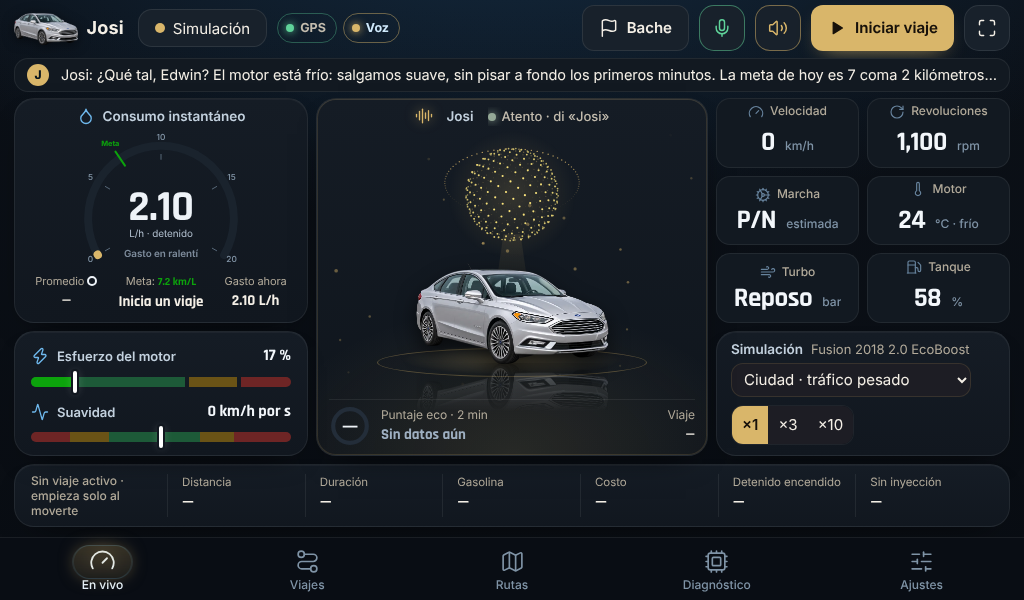
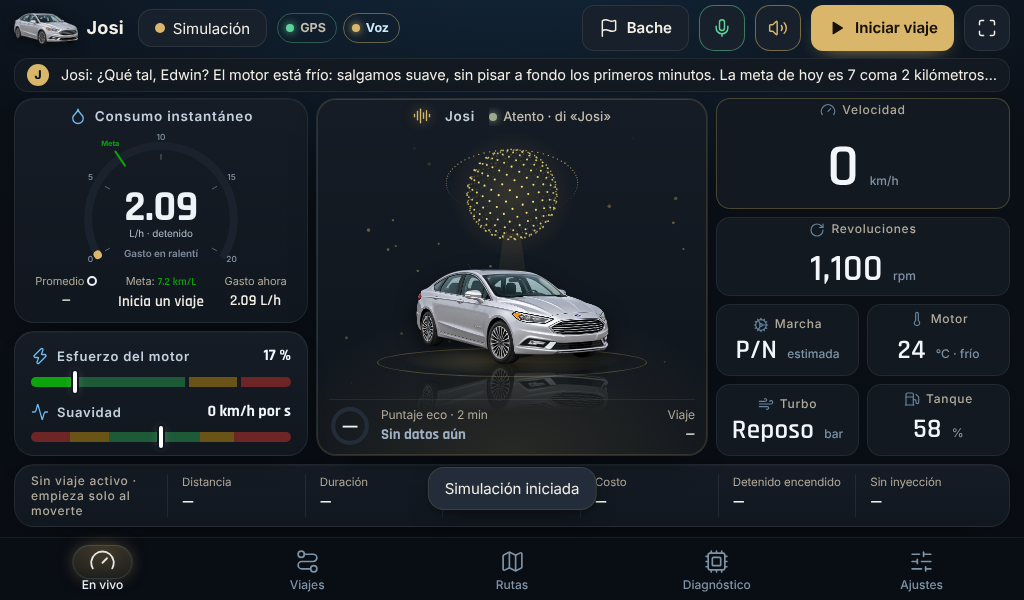
Bloque 3: jerarquía del cockpit, tipografía por tema, niveles de animación y modo conducción
Claude-Session: https://claude.ai/code/session_01QTMLcSmHyeseGkY8B16Hks

diff --git a/index.html b/index.html
@@ -1339,6 +1339,27 @@ body.night .josi-car{animation:none}
   .stat .lbl{font-size:11.5px}.stat .v{font-size:19px}
   .coach{min-height:34px;font-size:14.5px;margin-bottom:6px;padding:3px 12px}
 }
+/* Bloque 3 · jerarquía de conducción: velocidad y RPM dominan (pantallas anchas) */
+@media (min-width:1001px){
+  .live:not(.has-sim) .tiles{grid-template-rows:1.55fr 1.1fr 1fr 1fr}
+  .live:not(.has-sim) .tiles .tile:nth-child(-n+2){grid-column:span 2}
+  .live:not(.has-sim) .tiles .tile:nth-child(1) .v{font-size:clamp(44px,10vh,80px)!important;line-height:.95;color:var(--ink-num)}
+  .live:not(.has-sim) .tiles .tile:nth-child(2) .v{font-size:clamp(30px,6.2vh,48px)!important;line-height:1}
+  .live .tiles .tile:nth-child(1){border-color:rgba(var(--acc),.28)}
+}
+@media (min-width:1001px) and (min-height:701px){.live:not(.has-sim) .tiles{grid-template-rows:1.7fr 1.1fr 1fr 1fr}}
+/* Tipografía por tema */
+body[data-theme=luxury] .tile .v,body[data-theme=luxury] .gauge-card b.num{font-weight:300;letter-spacing:.01em}
+body[data-theme=luxury] .tile .t,body[data-theme=luxury] .card-h{letter-spacing:.06em}
+body[data-theme=sport] .tile .v{font-weight:800;letter-spacing:-.01em}
+body[data-theme=sport] .tile .t,body[data-theme=sport] .card-h{text-transform:uppercase;letter-spacing:.07em;font-size:.92em}
+/* Animaciones: 3 niveles (off / standard / premium) y modo conducción */
+body[data-anim=off] #view *,body[data-anim=off] #view{animation:none!important;transition:none!important}
+body[data-anim=off] .josi-car,body[data-anim=off] .josi-floor,body[data-anim=off] .josi-floor::before,body[data-anim=off] .josi-floor::after,body[data-anim=off] .tile::after,body[data-anim=off] .gauge-card::after,body[data-anim=off] .effort-card::after,body[data-anim=off] .card-h::before,
+body.driving .josi-car,body.driving .josi-floor,body.driving .josi-floor::before,body.driving .josi-floor::after,body.driving .tile::after,body.driving .gauge-card::after,body.driving .effort-card::after,body.driving .card-h::before{animation:none!important}
+body[data-anim=premium] #view.ghost-in .card,body[data-anim=premium] #view.ghost-in .tile,body[data-anim=premium] #view.ghost-in .coach{animation-duration:.8s}
+body[data-anim=premium] #view.ghost-in .live>*:nth-child(n+2),body[data-anim=premium] #view.ghost-in .tiles .tile:nth-child(n+2){animation-delay:calc(var(--i,1) * .09s)}
+body[data-anim=premium] #view.ghost-in .tiles .tile:nth-child(3){--i:3}body[data-anim=premium] #view.ghost-in .tiles .tile:nth-child(4){--i:4}body[data-anim=premium] #view.ghost-in .tiles .tile:nth-child(5){--i:5}body[data-anim=premium] #view.ghost-in .tiles .tile:nth-child(6){--i:6}
 </style>
 <script>/* number-flow 0.6 (MIT) — dígitos animados */
 (()=>{var u=!0;var I=globalThis.process?.env?.NODE_ENV,Q=I&&!I.toLowerCase().startsWith("prod");var gt=String.raw,V=String.raw,X=u&&(()=>{try{document.createElement("div").animate({opacity:0},{easing:"linear(0, 1)"})}catch{return!1}return!0})(),H=u&&typeof CSS<"u"&&CSS.supports&&CSS.supports("line-height","mod(1,1)"),A=u&&typeof matchMedia<"u"?matchMedia("(prefers-reduced-motion: reduce)"):null,b="--_number-flow-d-opacity",R="--_number-flow-d-width",w="--_number-flow-dx",T="--_number-flow-d",z=(()=>{try{return CSS.registerProperty({name:b,syntax:"<number>",inherits:!1,initialValue:"0"}),CSS.registerProperty({name:w,syntax:"<length>",inherits:!0,initialValue:"0px"}),CSS.registerProperty({name:R,syntax:"<number>",inherits:!1,initialValue:"0"}),CSS.registerProperty({name:T,syntax:"<number>",inherits:!0,initialValue:"0"}),!0}catch{return!1}})(),k="round(nearest, calc(var(--number-flow-mask-height, 0.25em) / 2), 1px)",m=`calc(${k} * 2)`,D="var(--number-flow-mask-width, 0.5em)",g=`calc(${D} / var(--scale-x))`,C="#000 0, transparent 71%",U=V`:host{display:inline-block;direction:ltr;white-space:nowrap;isolation:isolate;line-height:1}.number,.number__inner{display:inline-block;transform-origin:left top}:host([data-will-change]) :is(.number,.number__inner,.section,.digit,.digit__num,.symbol){will-change:transform}.number{--scale-x:calc(1 + var(${R}) / var(--width));transform:translateX(var(${w})) scaleX(var(--scale-x));margin:0 calc(-1 * ${D});position:relative;-webkit-mask-image:linear-gradient(to right,transparent 0,#000 ${g},#000 calc(100% - ${g}),transparent ),linear-gradient(to bottom,transparent 0,#000 ${m},#000 calc(100% - ${m}),transparent 100% ),radial-gradient(at bottom right,${C}),radial-gradient(at bottom left,${C}),radial-gradient(at top left,${C}),radial-gradient(at top right,${C});-webkit-mask-size:100% calc(100% - ${m} * 2),calc(100% - ${g} * 2) 100%,${g} ${m},${g} ${m},${g} ${m},${g} ${m};-webkit-mask-position:center,center,top left,top right,bottom right,bottom left;-webkit-mask-repeat:no-repeat}.number__inner{padding:${k} ${D};transform:scaleX(calc(1 / var(--scale-x))) translateX(calc(-1 * var(${w})))}:host > :not(.number){z-index:5}.section,.symbol{display:inline-block;position:relative;isolation:isolate}.section::after{content:'\200b';display:inline-block}.section--justify-left{transform-origin:center left}.section--justify-right{transform-origin:center right}.section > [inert],.symbol > [inert]{margin:0 !important;position:absolute !important;z-index:-1}.digit{display:inline-block;position:relative;--c:var(--current) + var(${T})}.digit__num,.number .section::after{padding:${k} 0}.digit__num{display:inline-block;--offset-raw:mod(var(--length) + var(--n) - mod(var(--c),var(--length)),var(--length));--offset:calc( var(--offset-raw) - var(--length) * round(down,var(--offset-raw) / (var(--length) / 2),1) );--y:clamp(-100%,var(--offset) * 100%,100%);transform:translateY(var(--y))}.digit__num[inert]{position:absolute;top:0;left:50%;transform:translateX(-50%) translateY(var(--y))}.digit:not(.is-spinning) .digit__num[inert]{display:none}.symbol__value{display:inline-block;mix-blend-mode:plus-lighter;white-space:pre}.section--justify-left .symbol > [inert]{left:0}.section--justify-right .symbol > [inert]{right:0}.animate-presence{opacity:calc(1 + var(${b}))}`,Y=u&&typeof HTMLElement<"u"?HTMLElement:class{},Z=V`:host{display:inline-block;direction:ltr;white-space:nowrap;line-height:1}span{display:inline-block}:host([data-will-change]) span{will-change:transform}.number,.digit{padding:${k} 0}.symbol{white-space:pre}`;var q=(n="")=>V`:where(number-flow${n}){line-height:1}number-flow${n} > span{font-kerning:none;display:inline-block;padding:${m} 0}`;var f=(n,t,e)=>{let i=document.createElement(n),[s,r]=Array.isArray(t)?[void 0,t]:[t,e];return s&&Object.assign(i,s),r?.forEach(a=>i.appendChild(a)),i},it=(n,t)=>{var e;return t==="left"?n.offsetLeft:(((e=n.offsetParent instanceof HTMLElement?n.offsetParent:null)==null?void 0:e.offsetWidth)??0)-n.offsetWidth-n.offsetLeft},st=n=>n.offsetWidth>0&&n.offsetHeight>0,J=(n,t)=>{u&&typeof HTMLElement<"u"&&typeof customElements<"u"&&!customElements.get(n)&&customElements.define(n,t)};function nt(n,t,{reverse:e=!1}={}){let i=n.length;for(let s=e?i-1:0;e?s>=0:s<i;e?s--:s++)t(n[s],s)}function G(n,t,e,i){let s=t.formatToParts(n);e&&s.unshift({type:"prefix",value:e}),i&&s.push({type:"suffix",value:i});let r=[],a=[],o=[],c=[],p={},d=h=>`${h}:${p[h]=(p[h]??-1)+1}`,v="",y=!1,_=!1;for(let h of s){v+=h.value;let l=h.type==="minusSign"||h.type==="plusSign"?"sign":h.type;l==="integer"?(y=!0,a.push(...h.value.split("").map(L=>({type:l,value:parseInt(L)})))):l==="group"?a.push({type:l,value:h.value}):l==="decimal"?(_=!0,o.push({type:l,value:h.value,key:d(l)})):l==="fraction"?o.push(...h.value.split("").map(L=>({type:l,value:parseInt(L),key:d(l),pos:-1-p[l]}))):(y||_?c:r).push({type:l,value:h.value,key:d(l)})}let B=[];for(let h=a.length-1;h>=0;h--){let l=a[h];B.unshift(l.type==="integer"?{...l,key:d(l.type),pos:p[l.type]}:{...l,key:d(l.type)})}return{pre:r,integer:B,fraction:o,post:c,valueAsString:v,value:typeof n=="string"?parseFloat(n):n}}var W=H&&X&&z,$=class extends Y{constructor(){super(),this.created=!1,this.batched=!1,this._preUpdated=!1;let{animated:t,...e}=this.constructor.defaultProps;this._animated=this.computedAnimated=t,Object.assign(this,e)}get animated(){return this._animated}set animated(t){var e;this.animated!==t&&(this._animated=t,(e=this.shadowRoot)==null||e.getAnimations().forEach(i=>i.finish()))}set data(t){var e,i;if(t==null||t===this._data)return;let{pre:s,integer:r,fraction:a,post:o,value:c}=t;if(this.created){let p=this._data;this._data=t,this.computedTrend=typeof this.trend=="function"?this.trend(p.value,c):this.trend,this.computedAnimated=W&&this._animated&&(!this.respectMotionPreference||!((e=A)!=null&&e.matches))&&st(this)&&this.ownerDocument.visibilityState==="visible",(i=this.plugins)==null||i.forEach(d=>{var v;return(v=d.onUpdate)==null?void 0:v.call(d,t,p,this)}),this.batched||this.willUpdate(),this._pre.update(s),this._num.update({integer:r,fraction:a}),this._post.update(o),this.batched||this.didUpdate()}else{this._data=t,this.attachShadow({mode:"open"});try{this._internals??(this._internals=this.attachInternals()),this._internals.role="img"}catch{}let p=document.createElement("style");this.nonce&&(p.nonce=this.nonce),p.textContent=U,this.shadowRoot.appendChild(p),this._pre=new M(this,s,{justify:"right",part:"left"}),this.shadowRoot.appendChild(this._pre.el),this._num=new F(this,r,a),this.shadowRoot.appendChild(this._num.el),this._post=new M(this,o,{justify:"left",part:"right"}),this.shadowRoot.appendChild(this._post.el),this.created=!0}try{this._internals.ariaLabel=t.valueAsString}catch{}}willUpdate(){var t;this._preUpdated=W&&this._animated&&(!this.respectMotionPreference||!((t=A)!=null&&t.matches))&&this.ownerDocument.visibilityState==="visible",this._preUpdated&&(this._pre.willUpdate(),this._num.willUpdate(),this._post.willUpdate())}didUpdate(){if(!this.computedAnimated||!this._preUpdated)return;this._abortAnimationsFinish?this._abortAnimationsFinish.abort():this.dispatchEvent(new Event("animationsstart")),this._pre.didUpdate(),this._num.didUpdate(),this._post.didUpdate();let t=new AbortController;Promise.all(this.shadowRoot.getAnimations().map(e=>e.finished)).then(()=>{t.signal.aborted||(this.dispatchEvent(new Event("animationsfinish")),this._abortAnimationsFinish=void 0)}),this._abortAnimationsFinish=t}};$.defaultProps={transformTiming:{duration:900,easing:"linear(0,.005,.019,.039,.066,.096,.129,.165,.202,.24,.278,.316,.354,.39,.426,.461,.494,.526,.557,.586,.614,.64,.665,.689,.711,.731,.751,.769,.786,.802,.817,.831,.844,.856,.867,.877,.887,.896,.904,.912,.919,.925,.931,.937,.942,.947,.951,.955,.959,.962,.965,.968,.971,.973,.976,.978,.98,.981,.983,.984,.986,.987,.988,.989,.99,.991,.992,.992,.993,.994,.994,.995,.995,.996,.996,.9963,.9967,.9969,.9972,.9975,.9977,.9979,.9981,.9982,.9984,.9985,.9987,.9988,.9989,1)"},spinTiming:void 0,opacityTiming:{duration:450,easing:"ease-out"},animated:!0,trend:(n,t)=>Math.sign(t-n),respectMotionPreference:!0,plugins:void 0,digits:void 0};var F=class{constructor(t,e,i,{className:s,...r}={}){this.flow=t,this._integer=new N(t,e,{justify:"right",part:"integer"}),this._fraction=new N(t,i,{justify:"left",part:"fraction"}),this._inner=f("span",{className:"number__inner"},[this._integer.el,this._fraction.el]),this.el=f("span",{...r,part:"number",className:`number ${s??""}`},[this._inner])}willUpdate(){this._prevWidth=this.el.offsetWidth,this._prevLeft=this.el.getBoundingClientRect().left,this._integer.willUpdate(),this._fraction.willUpdate()}update({integer:t,fraction:e}){this._integer.update(t),this._fraction.update(e)}didUpdate(){let t=this.el.getBoundingClientRect();this._integer.didUpdate(),this._fraction.didUpdate();let e=this._prevLeft-t.left,i=this.el.offsetWidth,s=this._prevWidth-i;this.el.style.setProperty("--width",String(i)),this.el.animate({[w]:[`${e}px`,"0px"],[R]:[s,0]},{...this.flow.transformTiming,composite:"accumulate"})}},j=class{constructor(t,e,{justify:i,className:s,...r},a){this.flow=t,this.children=new Map,this.onCharRemove=c=>()=>{this.children.delete(c)},this.justify=i;let o=e.map(c=>this.addChar(c).el);this.el=f("span",{...r,className:`section section--justify-${i} ${s??""}`},a?a(o):o)}addChar(t,{startDigitsAtZero:e=!1,...i}={}){let s=t.type==="integer"||t.type==="fraction"?new E(this,t.type,e?0:t.value,t.pos,{...i,onRemove:this.onCharRemove(t.key)}):new O(this,t.type,t.value,{...i,onRemove:this.onCharRemove(t.key)});return this.children.set(t.key,s),s}unpop(t){t.el.removeAttribute("inert"),t.el.style.top="",t.el.style[this.justify]=""}pop(t){t.forEach(e=>{e.el.style.top=`${e.el.offsetTop}px`,e.el.style[this.justify]=`${it(e.el,this.justify)}px`}),t.forEach(e=>{e.el.setAttribute("inert",""),e.present=!1})}addNewAndUpdateExisting(t){let e=new Map,i=new Map,s=this.justify==="left",r=s?"prepend":"append";if(nt(t,a=>{let o;this.children.has(a.key)?(o=this.children.get(a.key),i.set(a,o),this.unpop(o),o.present=!0):(o=this.addChar(a,{startDigitsAtZero:!0,animateIn:!0}),e.set(a,o)),this.el[r](o.el)},{reverse:s}),this.flow.computedAnimated){let a=this.el.getBoundingClientRect();e.forEach(o=>{o.willUpdate(a)})}e.forEach((a,o)=>{a.update(o.value)}),i.forEach((a,o)=>{a.update(o.value)})}willUpdate(){let t=this.el.getBoundingClientRect();this._prevOffset=t[this.justify],this.children.forEach(e=>e.willUpdate(t))}didUpdate(){let t=this.el.getBoundingClientRect();this.children.forEach(s=>s.didUpdate(t));let e=t[this.justify],i=this._prevOffset-e;i&&this.children.size&&this.el.animate({transform:[`translateX(${i}px)`,"none"]},{...this.flow.transformTiming,composite:"accumulate"})}},N=class extends j{update(t){let e=new Map;this.children.forEach((i,s)=>{t.find(r=>r.key===s)||e.set(s,i),this.unpop(i)}),this.addNewAndUpdateExisting(t),e.forEach(i=>{i instanceof E&&i.update(0)}),this.pop(e)}},M=class extends j{update(t){let e=new Map;this.children.forEach((i,s)=>{t.find(r=>r.key===s)||e.set(s,i)}),this.pop(e),this.addNewAndUpdateExisting(t)}},x=class{constructor(t,e,{onRemove:i,animateIn:s=!1}={}){this.flow=t,this.el=e,this._present=!0,this._remove=()=>{var r;this.el.remove(),(r=this._onRemove)==null||r.call(this)},this.el.classList.add("animate-presence"),this.flow.computedAnimated&&s&&this.el.animate({[b]:[-.9999,0]},{...this.flow.opacityTiming,composite:"accumulate"}),this._onRemove=i}get present(){return this._present}set present(t){if(this._present!==t){if(this._present=t,t?this.el.removeAttribute("inert"):this.el.setAttribute("inert",""),!this.flow.computedAnimated){t||this._remove();return}this.el.style.setProperty("--_number-flow-d-opacity",t?"0":"-.999"),this.el.animate({[b]:t?[-.9999,0]:[.999,0]},{...this.flow.opacityTiming,composite:"accumulate"}),t?this.flow.removeEventListener("animationsfinish",this._remove):this.flow.addEventListener("animationsfinish",this._remove,{once:!0})}}},P=class extends x{constructor(t,e,i,s){super(t.flow,i,s),this.section=t,this.value=e,this.el=i}},E=class extends P{constructor(t,e,i,s,r){var a,o;let c=(((o=(a=t.flow.digits)==null?void 0:a[s])==null?void 0:o.max)??9)+1,p=Array.from({length:c}).map((v,y)=>{let _=f("span",{className:"digit__num"},[document.createTextNode(String(y))]);return y!==i&&_.setAttribute("inert",""),_.style.setProperty("--n",String(y)),_}),d=f("span",{part:`digit ${e}-digit`,className:"digit"},p);d.style.setProperty("--current",String(i)),d.style.setProperty("--length",String(c)),super(t,i,d,r),this.pos=s,this._onAnimationsFinish=()=>{this.el.classList.remove("is-spinning")},this._numbers=p,this.length=c}willUpdate(t){let e=this.el.getBoundingClientRect();this._prevValue=this.value;let i=e[this.section.justify]-t[this.section.justify],s=e.width/2;this._prevCenter=this.section.justify==="left"?i+s:i-s}update(t){this.el.style.setProperty("--current",String(t)),this._numbers.forEach((e,i)=>i===t?e.removeAttribute("inert"):e.setAttribute("inert","")),this.value=t}didUpdate(t){let e=this.el.getBoundingClientRect(),i=e[this.section.justify]-t[this.section.justify],s=e.width/2,r=this.section.justify==="left"?i+s:i-s,a=this._prevCenter-r;a&&this.el.animate({transform:[`translateX(${a}px)`,"none"]},{...this.flow.transformTiming,composite:"accumulate"});let o=this.getDelta();o&&(this.el.classList.add("is-spinning"),this.el.animate({[T]:[-o,0]},{...this.flow.spinTiming??this.flow.transformTiming,composite:"accumulate"}),this.flow.addEventListener("animationsfinish",this._onAnimationsFinish,{once:!0}))}getDelta(){var t;if(this.flow.plugins)for(let s of this.flow.plugins){let r=(t=s.getDelta)==null?void 0:t.call(s,this.value,this._prevValue,this);if(r!=null)return r}let e=this.value-this._prevValue,i=this.flow.computedTrend||Math.sign(e);return i<0&&this.value>this._prevValue?this.value-this.length-this._prevValue:i>0&&this.value<this._prevValue?this.length-this._prevValue+this.value:e}},O=class extends P{constructor(t,e,i,s){let r=f("span",{className:"symbol__value",textContent:i});super(t,i,f("span",{part:`symbol ${e}`,className:"symbol"},[r]),s),this.type=e,this._children=new Map,this._onChildRemove=a=>()=>{this._children.delete(a)},this._children.set(i,new x(this.flow,r,{onRemove:this._onChildRemove(i)}))}willUpdate(t){if(this.type==="decimal")return;let e=this.el.getBoundingClientRect();this._prevOffset=e[this.section.justify]-t[this.section.justify]}update(t){if(this.value!==t){let e=this._children.get(this.value);e&&(e.present=!1);let i=this._children.get(t);if(i)i.present=!0;else{let s=f("span",{className:"symbol__value",textContent:t});this.el.appendChild(s),this._children.set(t,new x(this.flow,s,{animateIn:!0,onRemove:this._onChildRemove(t)}))}}this.value=t}didUpdate(t){if(this.type==="decimal")return;let e=this.el.getBoundingClientRect()[this.section.justify]-t[this.section.justify],i=this._prevOffset-e;i&&this.el.animate({transform:[`translateX(${i}px)`,"none"]},{...this.flow.transformTiming,composite:"accumulate"})}};var K=n=>[Z,q(n),U];var Nt=K(),at="number-flow-connect",rt="number-flow-update";var S=class extends ${constructor(){super(...arguments),this.connected=!1}connectedCallback(){this.connected=!0,this.dispatchEvent(new Event(at,{bubbles:!0}))}disconnectedCallback(){this.connected=!1}get value(){return this._value}update(t){(!this._formatter||this._prevFormat!==this.format||this._prevLocales!==this.locales)&&(this._formatter=new Intl.NumberFormat(this.locales,this.format),this._prevFormat=this.format,this._prevLocales=this.locales),t!=null&&(this._value=t),this.dispatchEvent(new Event(rt,{bubbles:!0})),this.data=G(this._value,this._formatter,this.numberPrefix,this.numberSuffix)}};J("number-flow",S);window.NumberFlow=S;})();
@@ -1450,7 +1471,7 @@ function featureAllowed(f) {
 
 /* ---------- Ajustes y unidades ---------- */
 const SPKEY = 'ecodrive.settings.v1', TKEY = 'ecodrive.trips.v1';
-const DEFAULTS = { azKey: '', azRegion: '', azVoice: 'es-PE-AlexNeural', azStyle: 'sereno', aiKey: '', aiModel: 'gemini-flash-lite-latest', wake: true, userName: 'Edwin', botName: 'Josi', companion: true, voiceListen: true, autoConnect: true, bumps: true, lastBaud: 0, voice: true, voiceName: '', voicePitch: 0.85, voiceRate: 1.0, v: 2, baseKmpl: 6.5, goalPct: 10, econ: 'kml', currency: '$', price: 0, speedLimit: 100, sensitivity: 'normal', calib: 1, multiPid: false, autoTrip: true, keepAwake: true, welcomed: false, baud: 'auto', tankMark: null, sounds: true, nightAuto: true, allowClearDtc: false, theme: 'estandar' };
+const DEFAULTS = { azKey: '', azRegion: '', azVoice: 'es-PE-AlexNeural', azStyle: 'sereno', aiKey: '', aiModel: 'gemini-flash-lite-latest', wake: true, userName: 'Edwin', botName: 'Josi', companion: true, voiceListen: true, autoConnect: true, bumps: true, lastBaud: 0, voice: true, voiceName: '', voicePitch: 0.85, voiceRate: 1.0, v: 2, baseKmpl: 6.5, goalPct: 10, econ: 'kml', currency: '$', price: 0, speedLimit: 100, sensitivity: 'normal', calib: 1, multiPid: false, autoTrip: true, keepAwake: true, welcomed: false, baud: 'auto', tankMark: null, sounds: true, nightAuto: true, allowClearDtc: false, theme: 'estandar', anim: 'standard' };
 const S_RAW = store.get(SPKEY, {});
 let S = Object.assign({}, DEFAULTS, S_RAW);
 // 3.19: la palabra «Josi» quedó apagada en equipos donde nunca se volvió a encender; se reactiva una sola vez (si el micrófono está bloqueado, el diagnóstico lo explica)
@@ -1459,7 +1480,7 @@ function saveSettings() { store.set(SPKEY, S); }
 const ACC_RGB = [76, 180, 245];
 const THEMES = { estandar: ['Estándar', '#0d1117', '#4cb4f5'], luxury: ['Luxury', '#0b0b0d', '#d9b66a'], sport: ['Sport', '#070708', '#ff4a3d'] };
 function applyTheme() {
-  const t = THEMES[S.theme] ? S.theme : 'estandar'; document.body.dataset.theme = t;
+  const t = THEMES[S.theme] ? S.theme : 'estandar'; document.body.dataset.theme = t; document.body.dataset.anim = ['off', 'standard', 'premium'].includes(S.anim) ? S.anim : 'standard';
   const m = document.querySelector('meta[name=theme-color]'); if (m) m.content = THEMES[t][1];
   if (typeof C !== 'undefined') C.accent = THEMES[t][2];
   ACC_RGB.splice(0, 3, ...(getComputedStyle(document.body).getPropertyValue('--acc').split(',').map(Number)));
@@ -5452,7 +5473,7 @@ const Cloud = {
   st: store.get(CLOUDKEY, { base: {}, dels: {}, setSig: '', setTs: 0, sig: '', last: 0, user: '' }),
   tok: null, exp: 0, busy: false, tc: null, tcId: '', err: '',
   SCOPE: 'https://www.googleapis.com/auth/drive.appdata openid email',
-  SET: ['theme', 'userName', 'botName', 'econ', 'currency', 'price', 'baseKmpl', 'goalPct', 'speedLimit', 'sensitivity', 'calib', 'companion', 'azVoice', 'azStyle', 'voicePitch', 'voiceRate', 'nightAuto', 'sounds', 'keepAwake', 'autoTrip', 'bumps'],
+  SET: ['theme', 'anim', 'userName', 'botName', 'econ', 'currency', 'price', 'baseKmpl', 'goalPct', 'speedLimit', 'sensitivity', 'calib', 'companion', 'azVoice', 'azStyle', 'voicePitch', 'voiceRate', 'nightAuto', 'sounds', 'keepAwake', 'autoTrip', 'bumps'],
   get native() { return typeof NATIVE !== 'undefined' && NATIVE; },
   get signed() { return !!this.st.user; },
   get valid() { return !!this.tok && Date.now() < this.exp - 60000; },
@@ -5597,6 +5618,7 @@ function viewSettings() {
     <div class="f"><span>Versión de la app <span class="d">Si no coincide con la última, recarga la página</span></span><b>${APP_VER}</b></div>
     <div class="f"><span>Sonidos suaves al tocar <span class="d">Un «tic» discreto en botones y pestañas</span></span><input type="checkbox" id="sSnd" ${S.sounds ? 'checked' : ''}></div>
     <div class="f"><span>Tema visual <span class="d">Cambia colores e iluminación sin reiniciar GPS ni OBD2</span></span><select id="sTheme">${Object.entries(THEMES).map(([k, v]) => `<option value="${k}" ${S.theme === k ? 'selected' : ''}>${v[0]}</option>`).join('')}</select></div>
+    <div class="f"><span>Animaciones <span class="d">Premium: entradas más ricas. Se reducen solas al conducir y con «movimiento reducido»</span></span><select id="sAnim">${[['off', 'Desactivadas'], ['standard', 'Estándar'], ['premium', 'Premium']].map(([k, n]) => `<option value="${k}" ${(S.anim || 'standard') === k ? 'selected' : ''}>${n}</option>`).join('')}</select></div>
     <div class="f"><span>Modo noche automático <span class="d">De 7 pm a 6 am baja el brillo y suaviza los colores</span></span><input type="checkbox" id="sNight" ${S.nightAuto ? 'checked' : ''}></div>
     <div class="f"><span>Mantener la pantalla encendida</span><input type="checkbox" id="sWake" ${S.keepAwake ? 'checked' : ''}></div>
     <div class="f"><span>Lectura rápida (varios datos por consulta) <span class="d">Más lecturas por segundo. Si tu adaptador no la admite, se desactiva sola.</span></span><input type="checkbox" id="sMulti" ${S.multiPid ? 'checked' : ''}></div>
@@ -5809,6 +5831,7 @@ function bindSettings() {
   $('#sAuto').onchange = e => { S.autoTrip = e.target.checked; saveSettings(); };
   $('#sSnd').onchange = e => { S.sounds = e.target.checked; saveSettings(); if (S.sounds) Snd.play('tab'); };
   $('#sTheme').onchange = e => { S.theme = e.target.value; saveSettings(); applyTheme(); };
+  $('#sAnim').onchange = e => { S.anim = e.target.value; saveSettings(); applyTheme(); };
   $('#sNight').onchange = e => { S.nightAuto = e.target.checked; saveSettings(); Snd.night(); };
   $('#sWake').onchange = e => { S.keepAwake = e.target.checked; saveSettings(); if (S.keepAwake && App.connected) requestWake(); else releaseWake(); };
   $('#sMulti').onchange = e => { S.multiPid = e.target.checked; saveSettings(); toast('Se aplica en la próxima conexión'); };
@@ -5841,14 +5864,14 @@ function setTab(tab) {
   v.style.setProperty('--dx', (Math.sign(order.indexOf(tab) - order.indexOf(App.tab)) || 1) * 34 + 'px');
   App.tab = tab; $$('#tabs button').forEach(b => b.classList.toggle('on', b.dataset.tab === tab));
   Snd.moveInd(false); if (!same) Snd.play('tab');
-  if (same || window.matchMedia('(prefers-reduced-motion:reduce)').matches) { renderView(); v.scrollTop = 0; return; }
+  if (same || Fx.reduced()) { renderView(); v.scrollTop = 0; return; }
   clearTimeout(setTab._t); v.classList.remove('ghost-in'); v.classList.add('ghost-out');
   setTab._t = setTimeout(() => { renderView(); v.scrollTop = 0; v.classList.remove('ghost-out'); void v.offsetWidth; v.classList.add('ghost-in'); setTimeout(() => v.classList.remove('ghost-in'), 650); }, 150);
 }
 
 /* ---------- Visual 2.1: movimiento sutil con Motion ---------- */
 const Fx = {
-  reduced() { return window.matchMedia('(prefers-reduced-motion:reduce)').matches; },
+  reduced() { return S.anim === 'off' || window.matchMedia('(prefers-reduced-motion:reduce)').matches; },
   enter(root) {
     if (this.reduced() || !window.Motion) return;
     const els = [...root.querySelectorAll('.hero h1, .hero p, .hero .meta, .hero-cta, .hero .car-wrap')]; if (!els.length) return;
@@ -5891,6 +5914,7 @@ function frame(ts) {
     if (App.trip) updateTripBar();
   }
   Wave.draw();
+  { const dr = ((App.connected && App.vals && App.vals.speed) || 0) > 5; if (dr !== App._drv) { App._drv = dr; document.body.classList.toggle('driving', dr); } }
   const tb = document.getElementById('talkBtn'); if (tb) tb.classList.toggle('on', !!(Talk.wakeActive || App.listening || Live.on));
   requestAnimationFrame(frame);
 }

diff --git a/docs/PROJECT_STATE.md b/docs/PROJECT_STATE.md
@@ -11,4 +11,9 @@
 - Motor de temas por variables CSS (`body[data-theme]`): Estándar, Luxury (grafito/dorado), Sport (negro/rojo). Selector en Ajustes; `applyTheme()` no toca GPS/BT/OBD2. `theme` se sincroniza con Drive.
 - Colores azules fijos del CSS pasaron a `--acc`/`--accent`; JS usa `C.accent` y `ACC_RGB`.
 - Vistas previas: `docs/preview-*.png` (simulador, 1024×600).
-- NO hecho aún: reorganización del cockpit (jerarquía/distribución), tipografías por tema, fondo/iluminación ambiental configurable, mapas Leaflet y colores semánticos (verde/ámbar/rojo) sin tema.
+- NO hecho aún: fondo/iluminación ambiental configurable, mapas Leaflet y colores semánticos sin tema.
+## Bloque 3 (hecho)
+- Jerarquía del cockpit (≥1001 px, sin panel simulación): Velocidad y RPM ocupan ancho completo y cifras grandes. Con simulación activa se conserva la distribución anterior (falta espacio).
+- Tipografía por tema (Luxury ligera/espaciada; Sport pesada/mayúsculas).
+- Animaciones: ajuste `anim` (off/standard/premium) vía `body[data-anim]`; `Fx.reduced()` respeta «off» y movimiento reducido; clase `body.driving` (>5 km/h) apaga animaciones decorativas. Los valores reales no se animan desde cero ni se retrasan.
+- Pendiente: count-up/barras/líneas animadas en gráficas, skeletons, Spring; vertical y 4:3 sin revisar.

diff --git a/docs/TEST_STATUS.md b/docs/TEST_STATUS.md
@@ -1,3 +1,3 @@
 # Pruebas
-`node tests/run.mjs` (Chromium headless, 1024×600): 9/9 OK, sin errores de consola. Cubre decodeDTC, lista de comandos de solo consulta, bloqueo/permiso de clearDTCs, valor por defecto, aplicación de los 3 temas y que el cambio de tema no reemplaza el transporte. Capturas visuales revisadas a mano en 1024×600 y 1280×800 (simulador).
+`node tests/run.mjs` (Chromium headless, 1024×600): 15/15 OK, sin errores de consola. Cubre decodeDTC, lista de comandos de solo consulta, bloqueo/permiso de clearDTCs, valor por defecto, aplicación de los 3 temas y que el cambio de tema no reemplaza el transporte, niveles de animación y modo conducción. Capturas visuales revisadas a mano en 1024×600 y 1280×800 (simulador).
 Pendiente en tablet real: Bluetooth/USB ELM327, GPS, APK, rendimiento (FPS/RAM no medidos).
